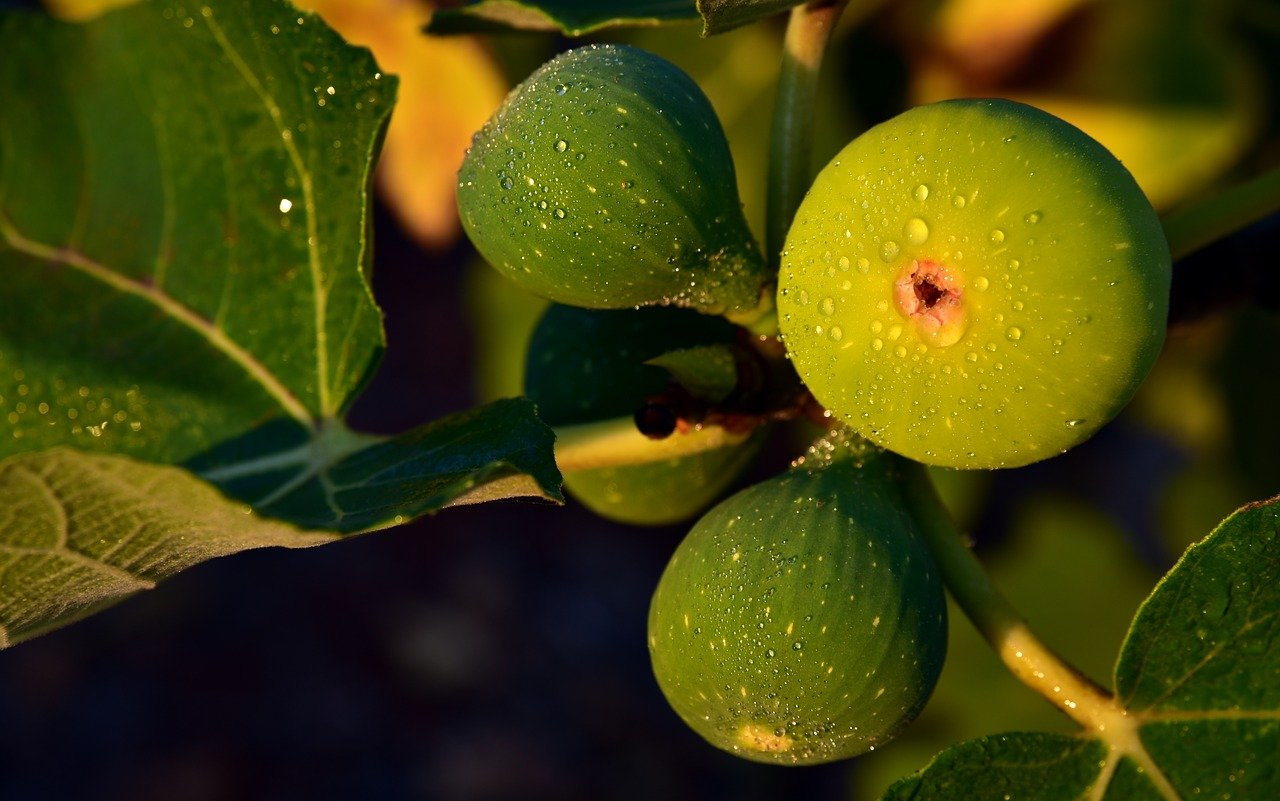
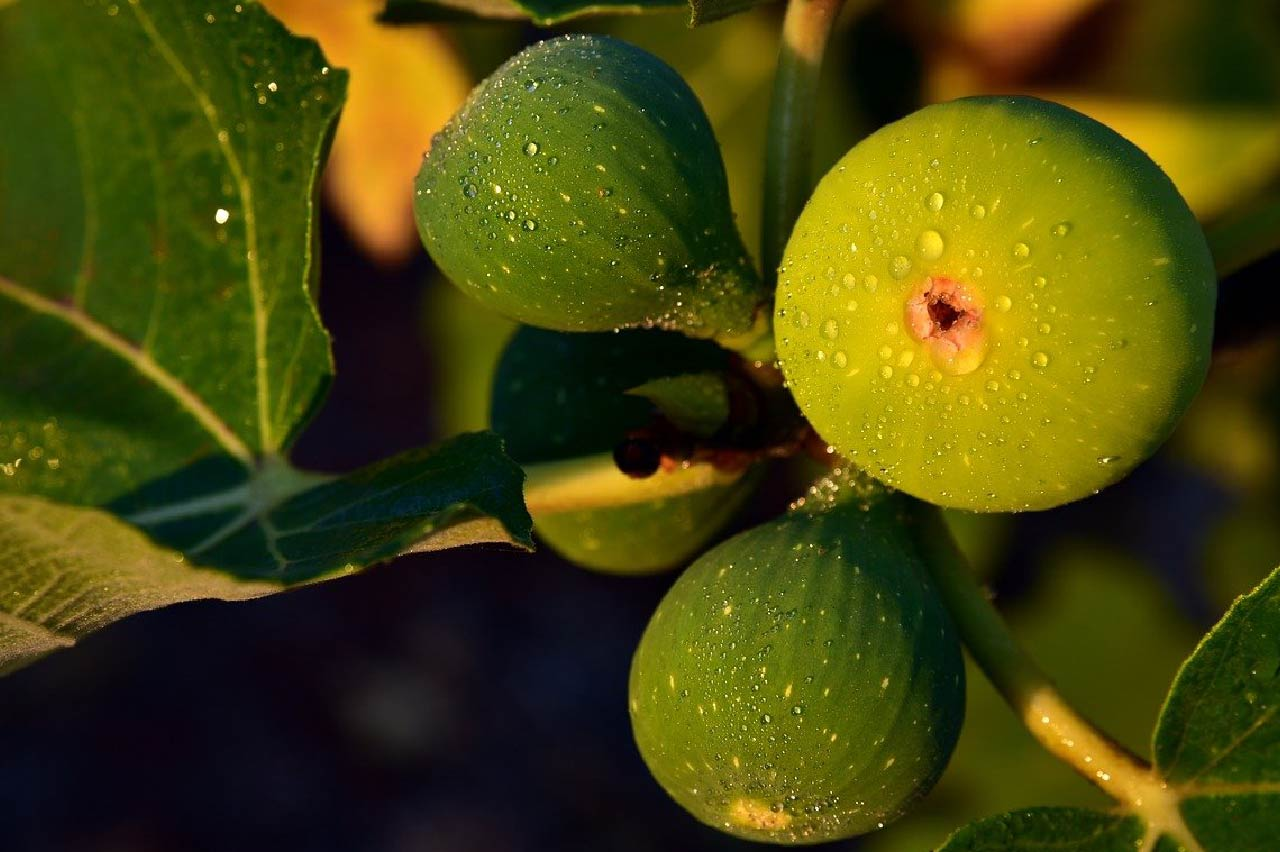
adding new categories into frutales
resizing images,css and html

diff --git a/frutales.html b/frutales.html
@@ -116,11 +116,71 @@
                  </a>
             </div>
         </div><!--end frutales 3-4-->
+        <div class="frutales5-6">
+            <div class="box-frutales5">
+             <a href="">
+                 <img src="./images/arbol ciruelo -Talagarden Vivero Santiago.jpg" alt="foto árbol de Ciruelo Talagarden vivero de arboles chile">
+                 <div class="text-container-box5-frutal">
+                     <p>Ciruelo</p>
+                     <p>$50.000</p>
+                 </div>
+             </a>
+            </div>
+            <div class="box-frutales6">
+                 <a href="">                  
+                     <img src="./images/arbol damasco -Talagarden Vivero Santiago.jpg" alt="foto árbol damasco Talagarden vivero de arboles chile">
+                     <div class="text-container-box6-frutal">
+                         <p>Damasco</p>
+                         <p>$50.000</p>
+                     </div>
+                 </a>
+            </div>
+        </div><!--end frutales 5-6-->
+        <div class="frutales7-8">
+            <div class="box-frutales7">
+             <a href="">
+                 <img src="./images/arbol durazno conservero -Talagarden Vivero Santiago.jpg" alt="foto árbol de Durazno Conservero Talagarden vivero de arboles chile">
+                 <div class="text-container-box7-frutal">
+                     <p>Durazno Conservero</p>
+                     <p>$50.000</p>
+                 </div>
+             </a>
+            </div>
+            <div class="box-frutales8">
+                 <a href="">                  
+                     <img src="./images/arbol durazno nectarino platano -Talagarden Vivero Santiago-.jpg" alt="foto árbol Durazno Plátano Talagarden vivero de arboles chile">
+                     <div class="text-container-box8-frutal">
+                         <p>Durazno Plátano</p>
+                         <p>$50.000</p>
+                     </div>
+                 </a>
+            </div>
+        </div><!--end frutales 7-8-->
+        <div class="frutales9-10">
+            <div class="box-frutales9">
+             <a href="">
+                 <img src="./images/arbol granado -Talagarden Vivero Santiago.jpg" alt="foto árbol de Granado Talagarden vivero de arboles chile">
+                 <div class="text-container-box9-frutal">
+                     <p>Granado</p>
+                     <p>$50.000</p>
+                 </div>
+             </a>
+            </div>
+            <div class="box-frutales10">
+                 <a href="">                  
+                     <img src="./images/arbol higuera -Talagarden Vivero Santiago.jpg" alt="foto árbol Higuera Talagarden vivero de arboles chile">
+                     <div class="text-container-box10-frutal">
+                         <p>Higuera</p>
+                         <p>$50.000</p>
+                     </div>
+                 </a>
+            </div>
+        </div><!--end frutales 9-10-->
 
         </div>
 
     </section> <!--fin de categories container-->
-
+    <section class="nav-tab"></section>
 
 
 

diff --git a/styles/boxes-frutales-container.css b/styles/boxes-frutales-container.css
@@ -50,9 +50,21 @@
 .text-container-box17-frutal, .text-container-box18-frutal{
     text-align: center;
    }
+  /*Se le aplica a TODOS los img:nth-child(1)
+para todas las imgs 1
 
+a:nth-child(1) > img:nth-child(1) {
+    height: 106.633px;
+   }
+ */  
+  /*Se le aplica a TODOS los p:nth-child(1)
+para todos los párrafos en posición 1 (que tienen dos líneas)*/ 
+p:nth-child(1) {
+    line-height: 20px;
+   }
+   
 /*Se le aplica a TODOS los p:nth-child(2)*/
-   p:nth-child(2) {
+p:nth-child(2) {
     font: var(--body);
     line-height: 5px;
    }
